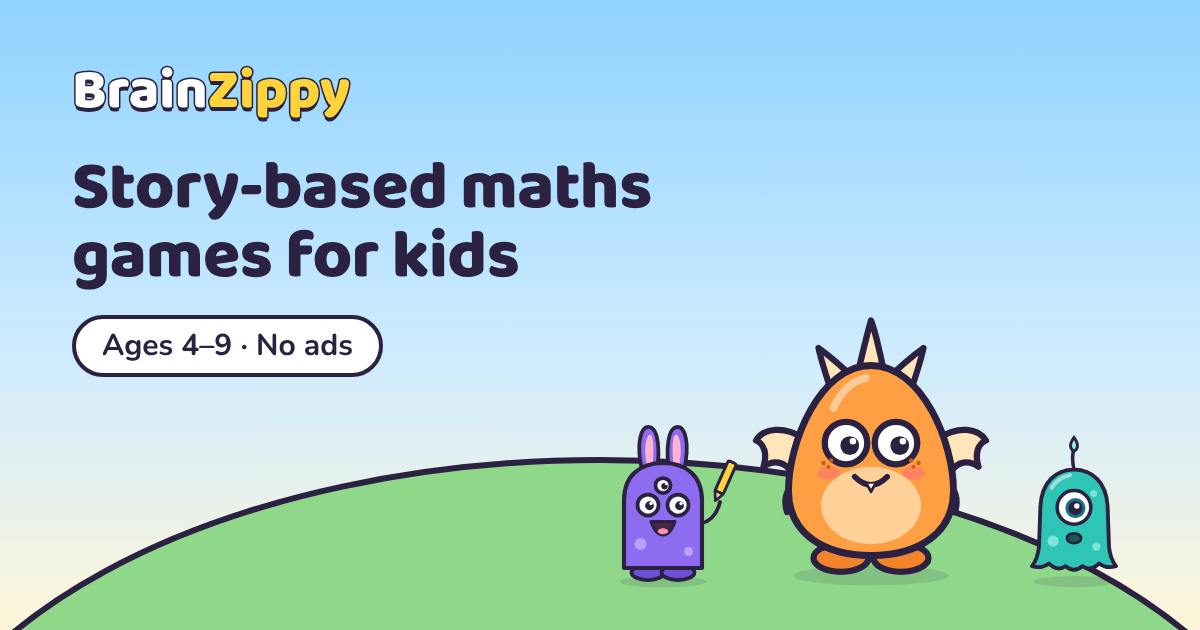
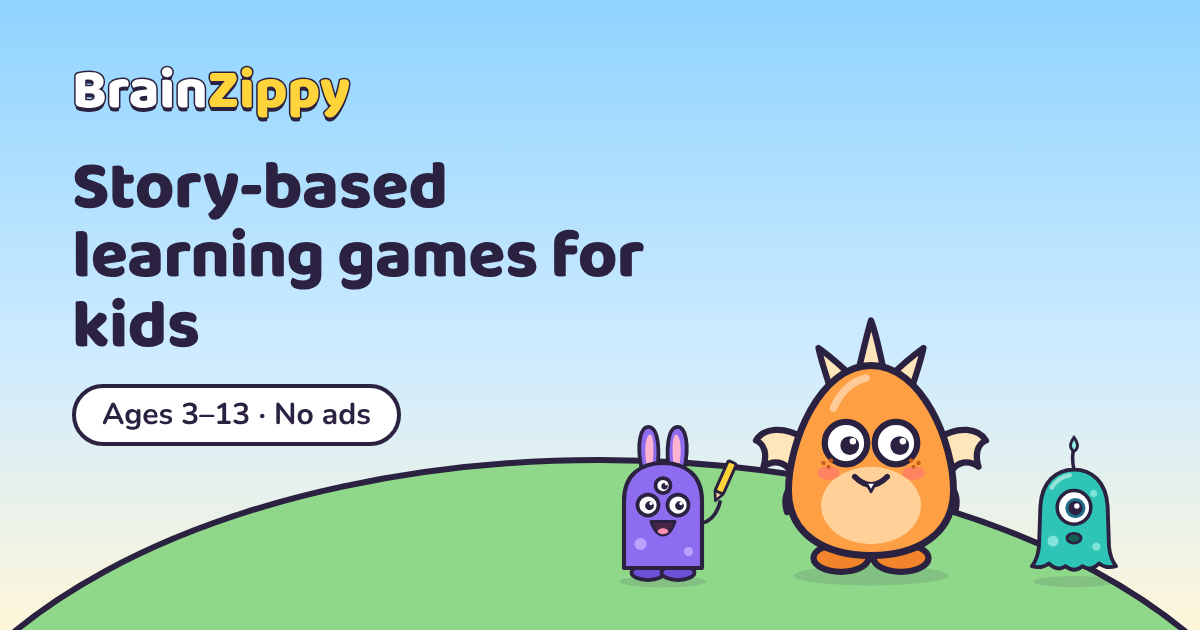
Site: real screenshots and OG cards for the new worlds, llms/e2e checks
- public/og/shots + games cards for rhyme-lanterns, pattern-parade, sleepy-trail, balance-island and
  shape-squish (shape-squish captured from a temporary merge with p1-shape-squish); default card now
  "learning games", ages 3–13. Other committed images regenerated byte-identical.
- prerender-images: --only and --wait options; alt text matches each captured screen
- e2e: llms.txt served and lists every game; subject/age hubs list games with Play links

Claude-Session: https://claude.ai/code/session_01BFkHUCBf4mW8F3hpui3mxn

Changed region(s): [[0.0617, 0.3619, 0.555, 0.7238], [0.37, 0.2413, 0.555, 0.3317]]

diff --git a/src/site/content/games.ts b/src/site/content/games.ts
@@ -232,7 +232,7 @@ export const GAME_COPY: Record<string, GameCopy> = {
       refs: ["bradley1983"],
     },
     guides: [],
-    screenshotAlt: "Hoot's Rhyme Lanterns: Hoot's lantern and a row of picture lanterns hanging in a night-time forest.",
+    screenshotAlt: "Hoot's Rhyme Lanterns: a cat lantern and a hat lantern hang in a night-time forest, with a bright pair of lanterns for yes and a sleepy lantern for no, and Hoot the owl asking whether they rhyme.",
   },
   "pattern-parade": {
     id: "pattern-parade",
@@ -283,7 +283,7 @@ export const GAME_COPY: Record<string, GameCopy> = {
       refs: ["rittlejohnson2017"],
     },
     guides: ["when-your-child-gets-it-wrong"],
-    screenshotAlt: "Puff's Pattern Parade: a row of parade marchers with a dashed gap, and Puff's cart of marchers to choose from.",
+    screenshotAlt: "Puff's Pattern Parade: parade floats in a star, heart, star, heart, star pattern with a dashed gap at the end, and a cart holding a star and a heart to choose from.",
   },
   "shape-squish": {
     id: "shape-squish",
@@ -332,7 +332,7 @@ export const GAME_COPY: Record<string, GameCopy> = {
       refs: ["clements1999shape", "ccss"],
     },
     guides: ["when-your-child-gets-it-wrong"],
-    screenshotAlt: "Gloop's Shape Squish: Gloop the jelly in a garden next to gates with shaped holes.",
+    screenshotAlt: "Gloop's Shape Squish: Gloop, squished into a circle, beside a square gate and a circle gate in Shape Garden, with a pointing hand showing how to drag Gloop.",
   },
   "sleepy-trail": {
     id: "sleepy-trail",
@@ -383,7 +383,7 @@ export const GAME_COPY: Record<string, GameCopy> = {
       refs: ["siegler2010", "ccss"],
     },
     guides: ["number-lines-for-kids", "when-your-child-gets-it-wrong"],
-    screenshotAlt: "Rumble's Sleepy Trail: Rumble on a trail from Mossy Rock to Big Tree, split into equal parts by posts, with a Nap here button.",
+    screenshotAlt: "Rumble's Sleepy Trail: Rumble at 0 on a trail to Big Tree at 1, split into two equal parts, with the puzzle “Find 1/2 of the trail!” and a Nap here button.",
   },
   "balance-island": {
     id: "balance-island",
@@ -432,6 +432,6 @@ export const GAME_COPY: Record<string, GameCopy> = {
       refs: ["knuth2006", "ccss"],
     },
     guides: [],
-    screenshotAlt: "Balance Scale Island: a balance scale with mystery bags and weights at Bobbo's night-market stall, with the matching equation written on a slate.",
+    screenshotAlt: "Balance Scale Island: a balance scale with a mystery bag and 3 kg on one pan and 7 kg on the other, the equation x + 3 = 7 on a slate, and four answer choices.",
   },
 };

diff --git a/e2e/site.spec.ts b/e2e/site.spec.ts
@@ -14,7 +14,7 @@ test.describe("public site", () => {
     const page = await ctx.newPage();
     const res = await page.goto("/");
     expect(res?.status()).toBe(200);
-    await expect(page.getByRole("heading", { level: 1 })).toHaveText("Story-based maths games for kids");
+    await expect(page.getByRole("heading", { level: 1 })).toHaveText("Story-based learning games for kids");
     const play = page.getByTestId("site-play");
     await expect(play).toBeVisible();
     await expect(play).toHaveAttribute("href", "/hello");
@@ -86,6 +86,29 @@ test.describe("public site", () => {
     const r = await request.get("/landing", { maxRedirects: 0 });
     expect(r.status()).toBe(301);
     expect(r.headers()["location"]).toMatch(/\/$/);
+  });
+
+  test("llms.txt is generated at build time and lists every game page in the sitemap", async ({ request }) => {
+    const res = await request.get("/llms.txt");
+    expect(res.status()).toBe(200);
+    const llms = await res.text();
+    expect(llms.startsWith("# BrainZippy\n")).toBe(true);
+    expect(llms).toContain("$6.99/month after a free trial");
+    const games = (await sitemapPaths(request)).filter((p) => p.startsWith("/games/"));
+    expect(games.length).toBeGreaterThan(0);
+    for (const g of games) expect(llms, g).toContain(`https://brainzippy.com${g})`);
+  });
+
+  test("subject and age pages list their games with working Play links", async ({ page, request }) => {
+    const hubs = (await sitemapPaths(request)).filter((p) => p.startsWith("/subjects/") || p.startsWith("/ages/"));
+    expect(hubs).toContain("/subjects/english");
+    for (const path of hubs) {
+      await page.goto(path);
+      await expect(page.getByRole("heading", { level: 1 })).toBeVisible();
+      const plays = page.locator("main .game-card a.play");
+      expect(await plays.count(), `${path} lists games`).toBeGreaterThan(0);
+      for (const href of await plays.evaluateAll((as) => as.map((a) => a.getAttribute("href")))) expect(href).toMatch(/^\/play\/[a-z0-9-]+$/);
+    }
   });
 
   test("no content page overflows at 390×844", async ({ browser, request }) => {

diff --git a/src/site/llms.ts b/src/site/llms.ts
@@ -40,7 +40,7 @@ export function renderLlms(pages: readonly Pick<PageDef, "path" | "title">[]): s
   for (const subject of SUBJECTS_NOW) {
     lines.push("", `### ${subject.title}`, "");
     for (const g of subject.games) {
-      const skills = g.skillIds.map((s) => SKILLS[s]?.name ?? s).join(", ");
+      const skills = g.skillIds.map((s, i) => { const n = SKILLS[s]?.name ?? s; return i === 0 ? n : n.charAt(0).toLowerCase() + n.slice(1); }).join(", ");
       lines.push(link(g.title, `/games/${g.id}`, `${g.gameType}, ages ${range(g.ages)}. ${skills}.`));
     }
   }
